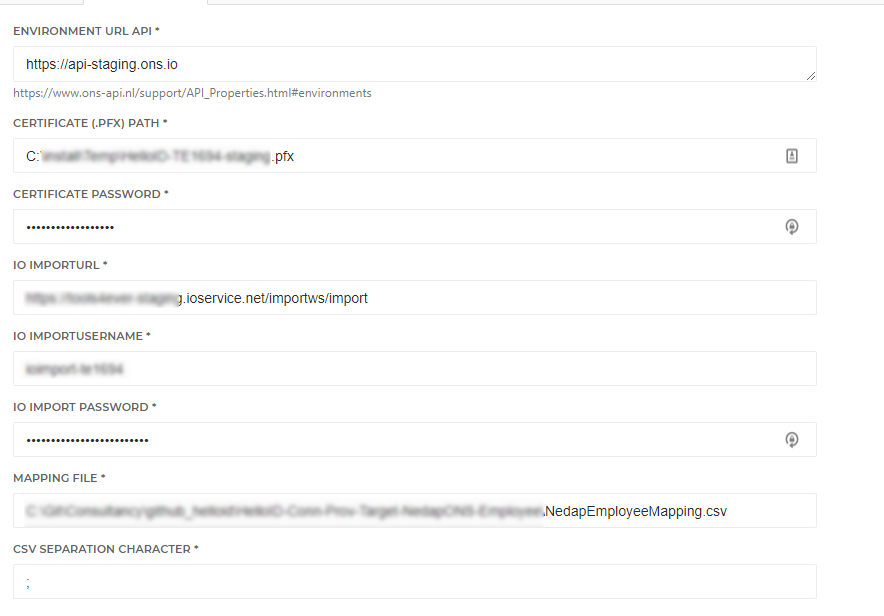
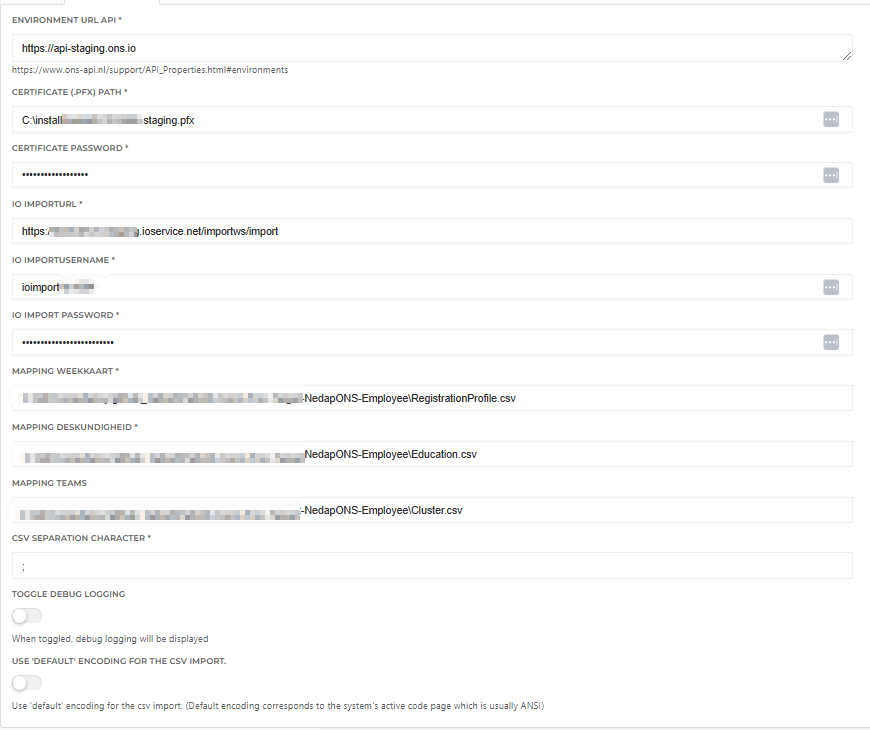
Updated Readme according changes in the mapping files

diff --git a/README.md b/README.md
@@ -17,21 +17,35 @@
    alt="drawing" style="width:300px;"/>
 </p>
 
+## Versioning
+|       | Description                                                | Date       |
+| ----- | ---------------------------------------------------------- | ---------- |
+| 2.0.0 | Split Mappings files for; `Weekkaart`, `Deskundigheid` en `Team` <br> Some Powershell 7.0 fixes| 14-11-2024 |
+| 1.1.0 | *Latest undocumented version..*                            | 27-03-2024 |
+| ...   | ...                                                        | ...        |
+| ...   | Initial release                                            | 2021-08-26 |
+
+> :warning: Upgrade warning!
+> Since the November 14, 2024 update, the connector has been changed from using a single mapping file to three separate files. If a customer prefers not to use three separate mapping files, they can continue to use the previous NedapEmployeeMapping.csv file for all three mappings by adding the same file three times in the configuration.
+
+
 
 <!-- TABLE OF CONTENTS -->
 ## Table of Contents
 - [HelloID-Conn-Prov-Target-NedapONS-Employee-Readme](#helloid-conn-prov-target-nedapons-employee-readme)
+  - [Versioning](#versioning)
   - [Table of Contents](#table-of-contents)
   - [Introduction](#introduction)
   - [Getting Started](#getting-started)
     - [Connection Settings](#connection-settings)
     - [Prerequisites](#prerequisites)
     - [Remarks](#remarks)
+      - [Mapping Remarks](#mapping-remarks)
   - [Provisioning](#provisioning)
     - [Employee Additional Mapping:](#employee-additional-mapping)
     - [Supported Properties](#supported-properties)
   - [Fact Sheet](#fact-sheet)
-  - [Remote Nedap documentatie](#remote-nedap-documentatie)
+  - [Remote Nedap documentation](#remote-nedap-documentation)
   - [Setup the connector](#setup-the-connector)
   - [HelloID Docs](#helloid-docs)
   - [Forum Thread](#forum-thread)
@@ -58,7 +72,9 @@ The following settings are required to connect to the API.
 | IO Import Url | The Url of the XML import of Nedap, Example: https://<.ioservice.net/importws/import"   |
 | IO Import Username |   The username of the IO Import         |
 | IO Import Password|   The Password of the IO Import          |
-| mappingFilePath| The Path to the mapping file   |
+| Mapping RegistrationProfile| The Path to the mapping file Weekkaart  |
+| Mapping Education| The Path to the mapping file Deskundigheid  |
+| Mapping Cluster| The Path to the mapping file Teams  |
 | CSV separation Character| Mapping File CSV Separation Character         |
 
 ------------------
@@ -81,9 +97,24 @@ Example:
 - This connector only supports a limited Employee object. When the required functionality is outside scope of this limited Employee connector, you will need an external supplier to configure a direct connection between your HRM system and Nedap Employees. It this situation, we can still manage your Ons user accounts and permissions.
  - Since the connector supports multiple accounts per a single HelloID person. The default Primary contract calculation is not always applicable. The connector contains an example of a "Primary contract calculation" , that calculates the primary contract for each employment (Nedap Account).
  - You can use this connector in combination with the Nedap-Users connector. When you use them both in the same environment. You must add the Employee Target system as "Use account data from system". To make sure the employee object exists in Nedap before starting to create the account object.
-- The connector is built containing three properties which cannot be mapped directly from the person model in HelloID. So there is a mapping file needed. This file must include a mapping between HR departments and/or function to a Nedap cluster, education and registration profile. The actions of the connector fails, when there is no mapping found. Of course, this can be changed in the code. But is not configurable by default.
 - When updating an employee account, you cannot verify if a property is successfully updated in Nedap. To do this you must check the Import Rapportage from the Nedap UI. *Beheer > Import > Importrapportage inzien*
 - Preview Mode: Note that in preview mode (DryRun), all HelloID contracts of a Person are in scope. Therefore, it does not simulate the actual outcome when it comes to determining which account should be created, updated, or deleted. However, this DryRun mode is added to verify if the mapping, configuration setting, etc. are present and correct. The contracts in scope are normally configured in the business rules. This cannot be stimulated in Preview.
+
+#### Mapping Remarks
+- Example mappings can be found in the Assets folder.
+- The connector is built containing three properties which cannot be mapped directly from the person model in HelloID. So there are a multiple mapping file required. These files must include a mapping between HR departments and/or function to a Nedap Cluster, Education or Registration profile. The actions of the connector fails, when there is no mapping found. Of course, this can be changed in the code. But is not configurable by default.
+- The Teams/Cluster mappings are often a one-to-one relationship with the HelloID data model, meaning no mapping file is required. The connector offers a switch in Create.ps1 and Update.ps1 that determines whether to use HelloID values directly. When using direct values, there is also a specific mapping that determines when these values should be used, as shown below:
+  ```PowerShell
+  # Cluster Configuration
+  # Determine if the cluster requires a CSV mapping or has a one-to-one relationship with the HelloID configuration.
+  $skipCsvMappingForCluster = $false
+  if ($skipCsvMappingForCluster ) {
+      $clusterId = { $_.Department.ExternalId }
+      $clusterName = { $_.Department.DisplayName }
+  }
+  ```
+
+> :bulb: Please note that, starting with version 2.0.0, the connector was changed from using a single mapping file to three separate files. If a customer does not want to use three separate mapping files, they can use the previous `NedapEmployeeMapping.csv` file for all three mappings by simply adding the same file three times in the configuration.
 
 -----------
 ## Provisioning
@@ -156,15 +187,17 @@ The following table displays an overview of the functionality for the Nedap Ons 
 |HourlyWages|Yes|No, *outside the scope of identity management.*|No
 |CollectiveAgreement|Yes|No, *outside the scope of identity management.*|No
 |Addresses|Yes|No, *outside the scope of identity management.*|No
-|FreeField|Yes|No|No
+| FreeField |Yes|No|No|
+
 -------------
 
 
-### Remote Nedap documentatie
+## Remote Nedap documentation
 * Nedap API documentatie → [klik](https://www.ons-api.nl/APIS.html)
- * Nedap XML import handleiding → [klik](https://support.nedap-healthcare.com/topic/gegevens-importeren-in-ons-via-xml-bestanden#te-importeren-gegevens-en-schema-definitie-(xsd))
-* Nedap XML import documentatie → [klik](https://support.nedap-healthcare.com/images/technische_documenten/io_server_xml_interface.pdf)
+* Nedap XML import handleiding → [klik](https://support.nedap-ons.nl/support/solutions/articles/103000265750-gegevens-importeren-via-xml-bestanden)
+* Nedap XML import documentatie → [klik](https://hc-freshdesk-assets.s3.eu-central-1.amazonaws.com/Supportportaal%20Ons%20Suite/Technische%20documenten/XML%20Interface/io_server_xml_interface.pdf)
 * Nedap ONS autorisatie handleiding → [klik](https://ons-api.nl/support/Shield.html)
+
 
 ## Setup the connector
 
